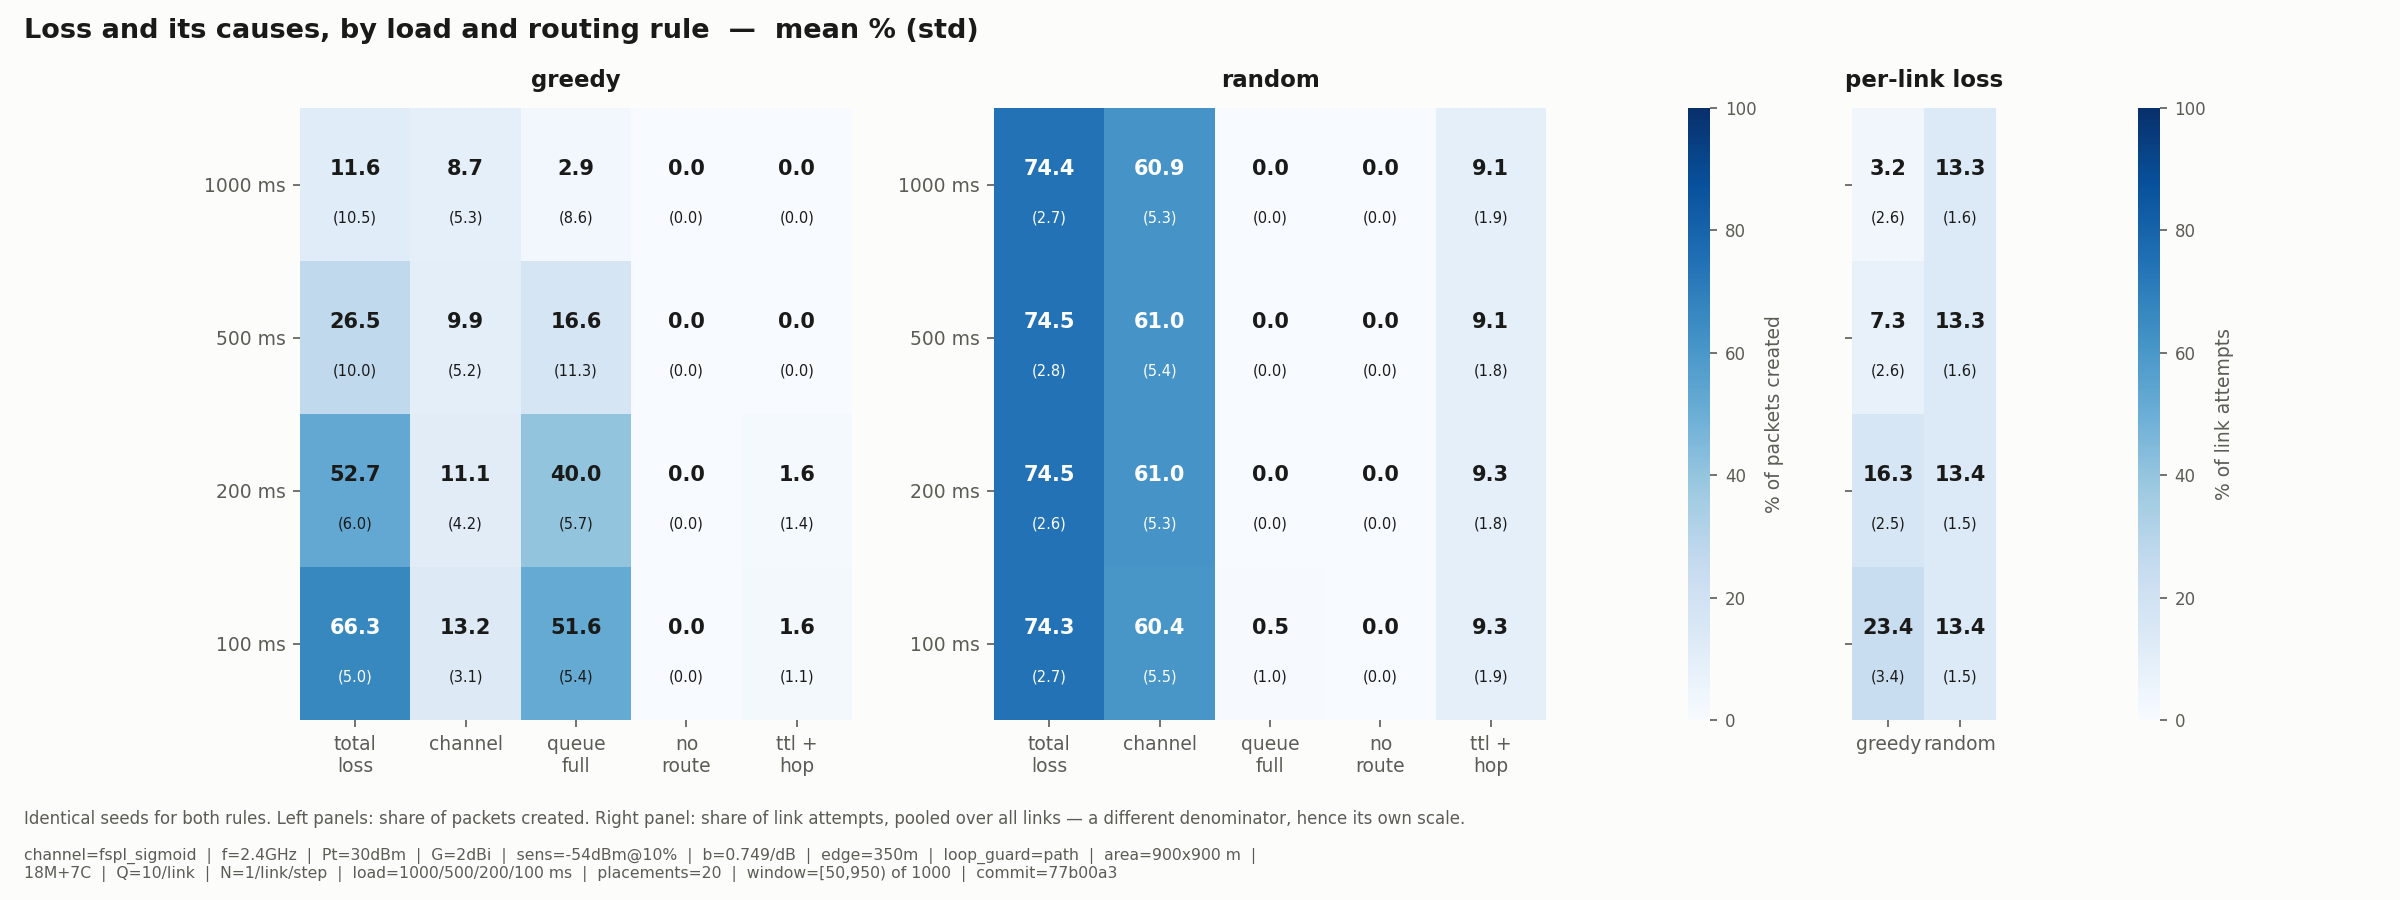
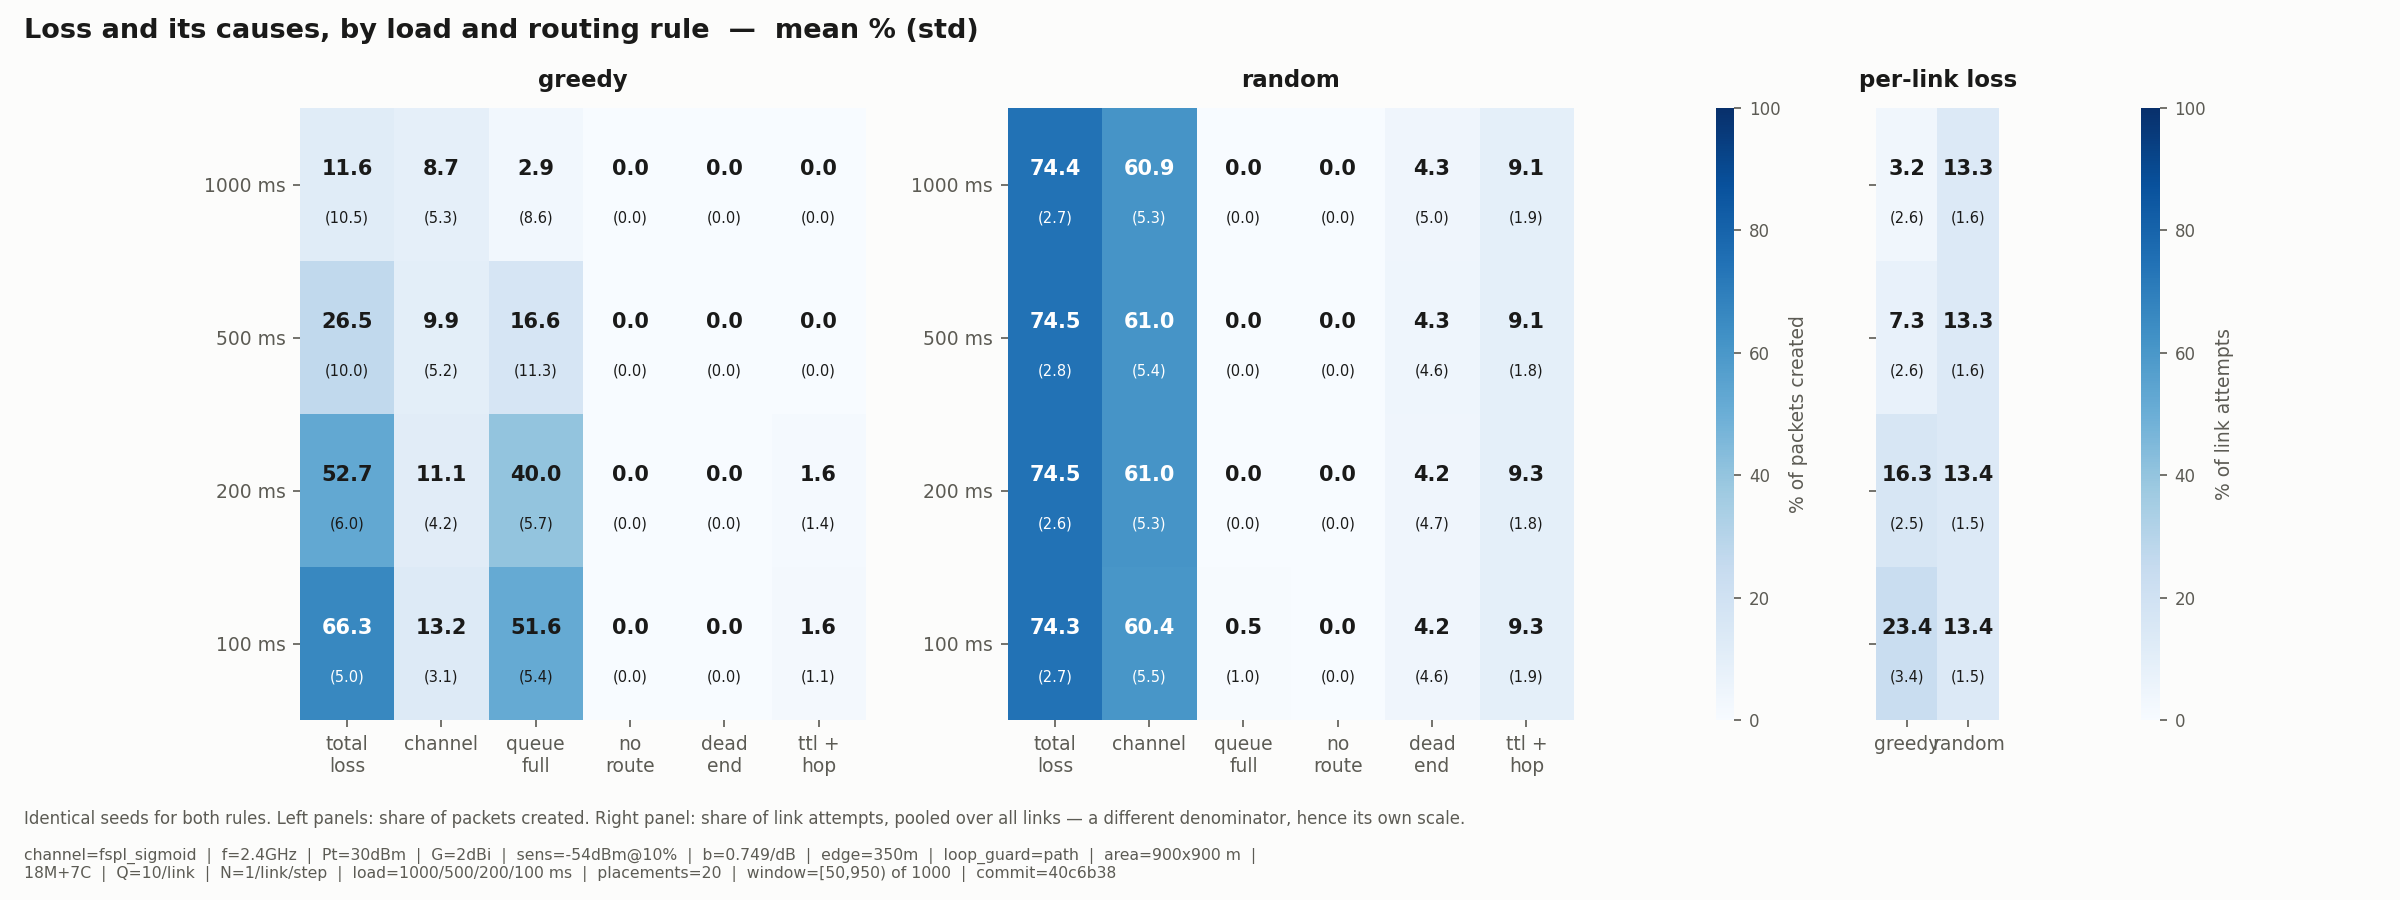
experiment_1a: widen the per-link panel
Adding the dead_end column squeezed the per-link panel until its two
column labels ran together.

diff --git a/rl_sim/scripts/experiment_1a.py b/rl_sim/scripts/experiment_1a.py
@@ -750,7 +750,7 @@ def plot_loss_heatmaps(summary: List[Dict[str, Any]], path: str) -> None:
     # neither lands on the column labels.
     grid = fig.add_gridspec(
         1, 5, width_ratios=[len(HEATMAP_COLUMNS), len(HEATMAP_COLUMNS),
-                            0.20, 1.3, 0.20],
+                            0.20, 2.0, 0.20],
         wspace=0.55, bottom=0.20, top=0.88,
     )
     fig.patch.set_facecolor(SURFACE)
